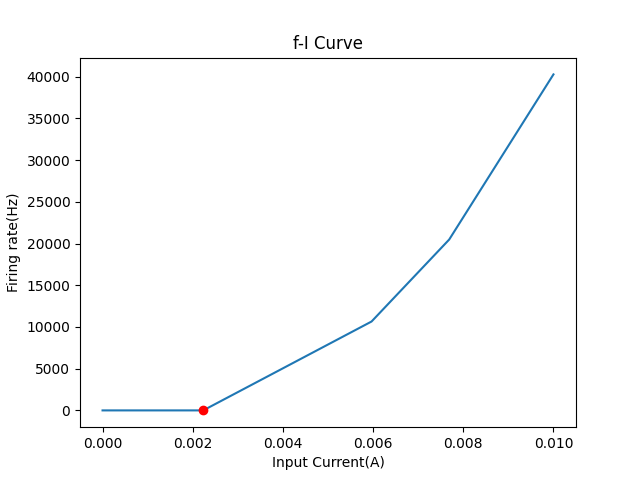
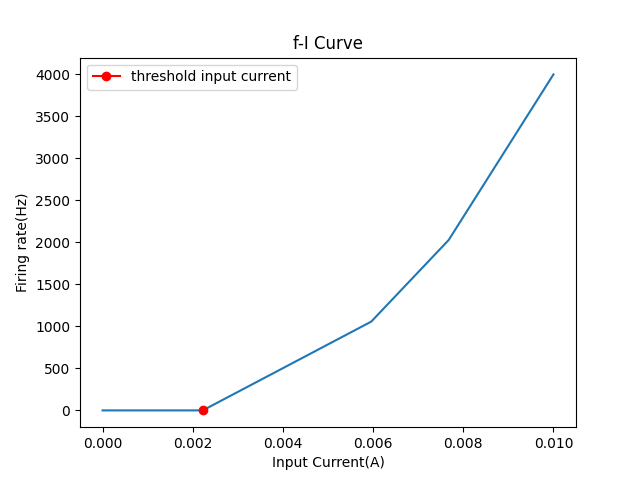
doc and cleanup

diff --git a/HH_model.py b/HH_model.py
@@ -6,8 +6,6 @@ from Markov_Model import *
 import time
 start_time = time.time()
 
-# Nelson, M.E. (2004) Electrophysiological Models In: Databasing the Brain: From Data to Knowledge. (S. Koslow and S. Subramaniam, eds.) Wiley, New York.
-
 class HodgkinHuxley():
     # Hodgkin - Huxley model
 
@@ -25,8 +23,7 @@ class HodgkinHuxley():
         # self.vk   = float(input("Enter the value of vK: "))                                    # Sodium potential
         # self.vl   = float(input("Enter the value of vl: "))                                    # Leak potential
         # self.vthresh   = float(input("Enter the value of voltage threshold: "))                # Voltage threshold for spikes
-        # self.tmin = float(input("Enter the start time : "))
-        # self.tmax = float(input("Enter the end time: "))
+        # self.tmax = float(input("Enter the total duration of simulation: "))
         # self.i_inj   = float(input("Enter the value of Input current i_inj: "))                # Input current
 
                 
@@ -43,13 +40,8 @@ class HodgkinHuxley():
         self.tmax = 35.*milli    # Total duration of simulation [ms]
         self.i_inj = 10.*milli   # TODO: ask about this 10**(-2) conversion is done in cm2?
         
-        # self.dt = 0.035
         self.t  = np.linspace(self.tmin, self.tmax, 1000) 
 
-
-    # These are the original HH equations for α,β where the constants vary in order to fit adequately the data
-    # α(v) = (A+B*v)/C + H*exp((v+D) / F) where A,B,C,D,F,H are constants to be fit to the data
-    
     def alpha_n(self,v):
         nom = 0.01* (10 - v)
         denom = (np.exp((10 - v) / 10) - 1)
@@ -89,19 +81,19 @@ class HodgkinHuxley():
 
     def frequency(self,y):
         firing_rate = []
-        self.var_inj = np.linspace(0, self.i_inj, 1000)
-        spikes = 0               # record spike times
+        self.max_I = []
+        self.var_inj = np.linspace(0, self.i_inj, 100)
+        spikes = 0               
 
         for i in range(len(self.var_inj)):
-            sol = odeint(self.derivatives, y, self.t, args=(self.var_inj[i],))    # Solve ODE
+            sol = odeint(self.derivatives, y, self.t, args=(self.var_inj[i],))
 
-            for n in range(len(self.var_inj)):
+            for n in range(len(self.t)):
                 if sol[n][0]*milli >= self.vthresh and sol[n-1][0]*milli < self.vthresh:
-                    spikes +=1
+                    spikes += 1
             firing_rate.append(spikes/self.tmax)
 
 
-        self.max_I = []
         for i in range(len(self.var_inj)):
             if firing_rate[i] ==0:
                 self.max_I.append(self.var_inj[i])          # threshold input current.
@@ -117,16 +109,16 @@ class HodgkinHuxley():
         m = y[2]
         h = y[3]
 
-        gNa = self.g_na * np.power(m, 3.0) * h
-        gK = self.g_k * np.power(n, 4.0)
+        gNa = self.g_na * m**3.0 * h
+        gK = self.g_k * n**4.0
         gL = self.g_l
 
-        i_na = gNa * (v- self.vna )
-        i_k = gK * (v- self.vk )
-        i_l = gL * (v- self.vl )
+        i_na = gNa * (v - self.vna )
+        i_k = gK * (v - self.vk )
+        i_l = gL * (v - self.vl )
 
 
-        der[0] = (inj - i_na - i_k - i_l) / self.c_m   # dv/dt
+        der[0] = (inj - i_na - i_k - i_l) / self.c_m                   # dv/dt
         der[1] = (self.alpha_n(v) * (1 - n)) - (self.beta_n(v) * n)    # dn/dt
         der[2] = (self.alpha_m(v) * (1 - m)) - (self.beta_m(v) * m)    # dm/dt
         der[3] = (self.alpha_h(v) * (1 - h)) - (self.beta_h(v) * h)    # dh/dt
@@ -139,7 +131,7 @@ class HodgkinHuxley():
         y = np.array([v, self.n_inf(v), self.m_inf(v), self.h_inf(v)], dtype= 'float64')
 
         sol = odeint(self.derivatives, y, t, args=(self.i_inj,))    # Solve ODE
-        vp = sol[:,0]*milli
+        vp = sol[:,0]*milli     #TODO: if conversion is done properly at the beggining then *milli is not needed
         n = sol[:,1]
         m = sol[:,2]
         h = sol[:,3]
@@ -182,10 +174,11 @@ class HodgkinHuxley():
         # F-I curve
         ax = plt.subplot()
         ax.plot(self.var_inj, firing_rate)
-        ax.plot(max(self.max_I),0,c='r',marker='o')
+        ax.plot(max(self.max_I),0,c='r',marker='o', label="threshold input current")
         ax.set_xlabel("Input Current(A)")
         ax.set_ylabel("Firing rate(Hz)")
         ax.set_title('f-I Curve')
+        plt.legend()
         plt.savefig('f-I Curve')
         plt.show()
 
